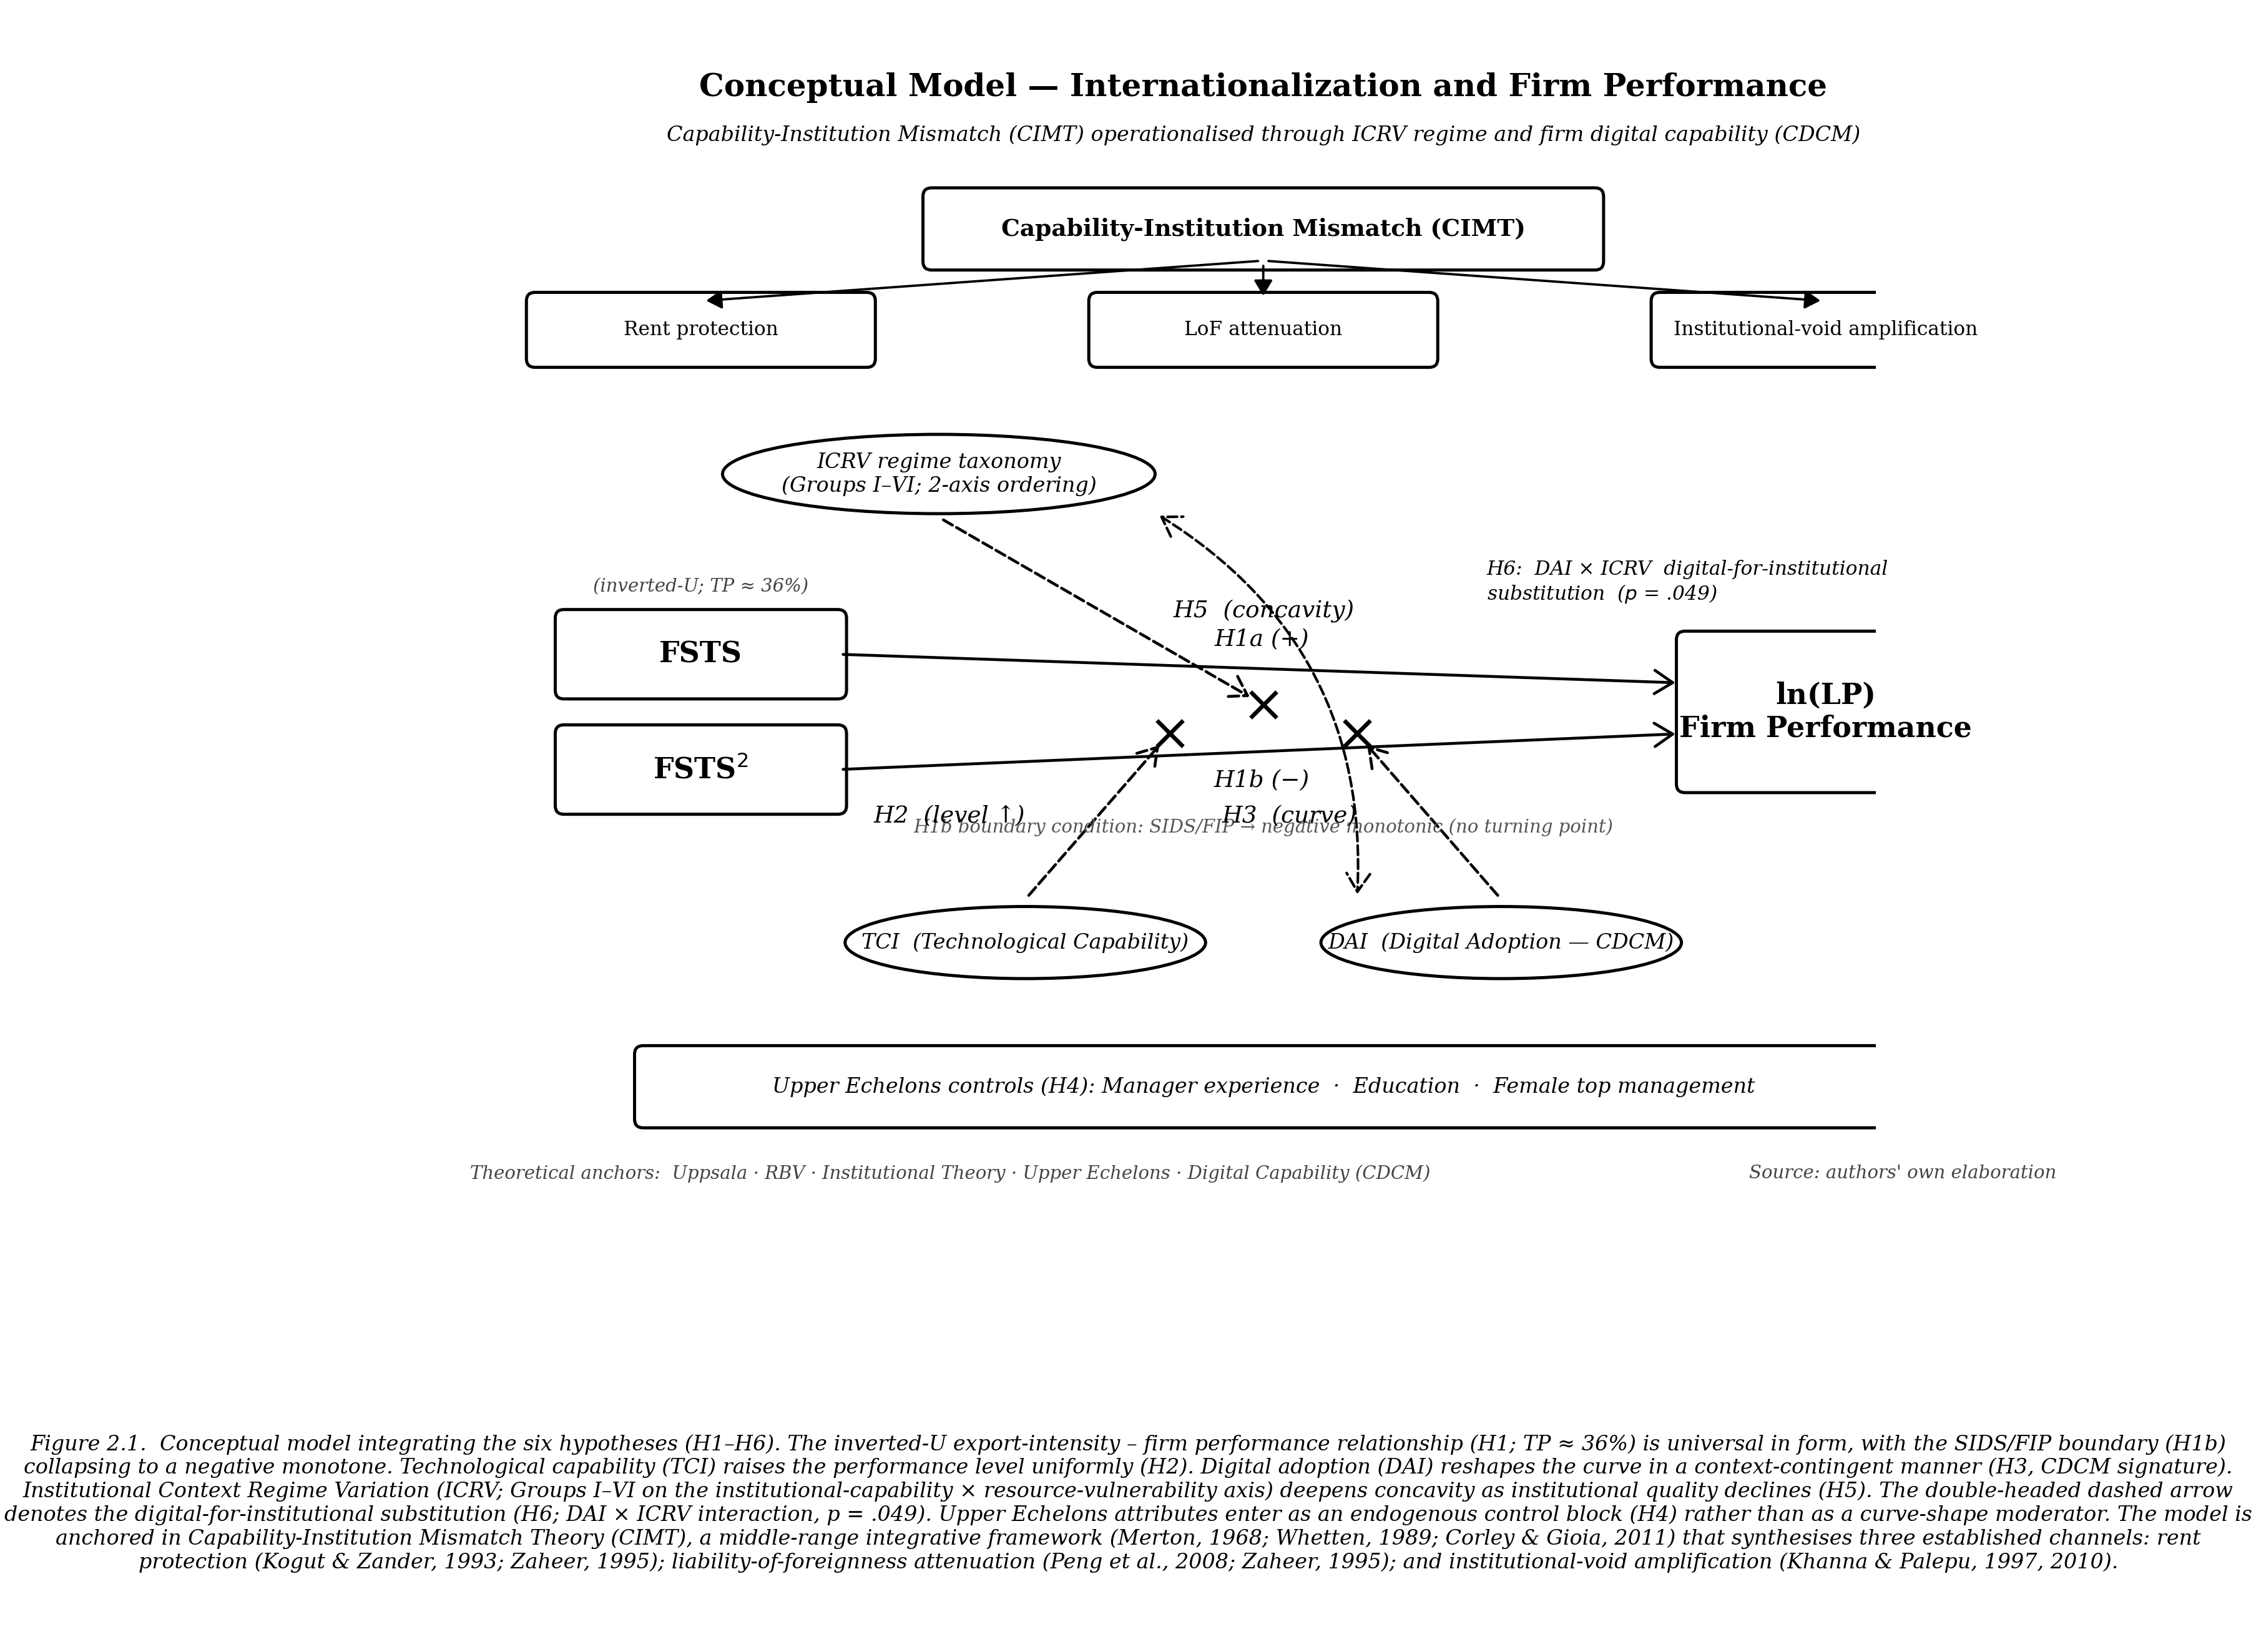
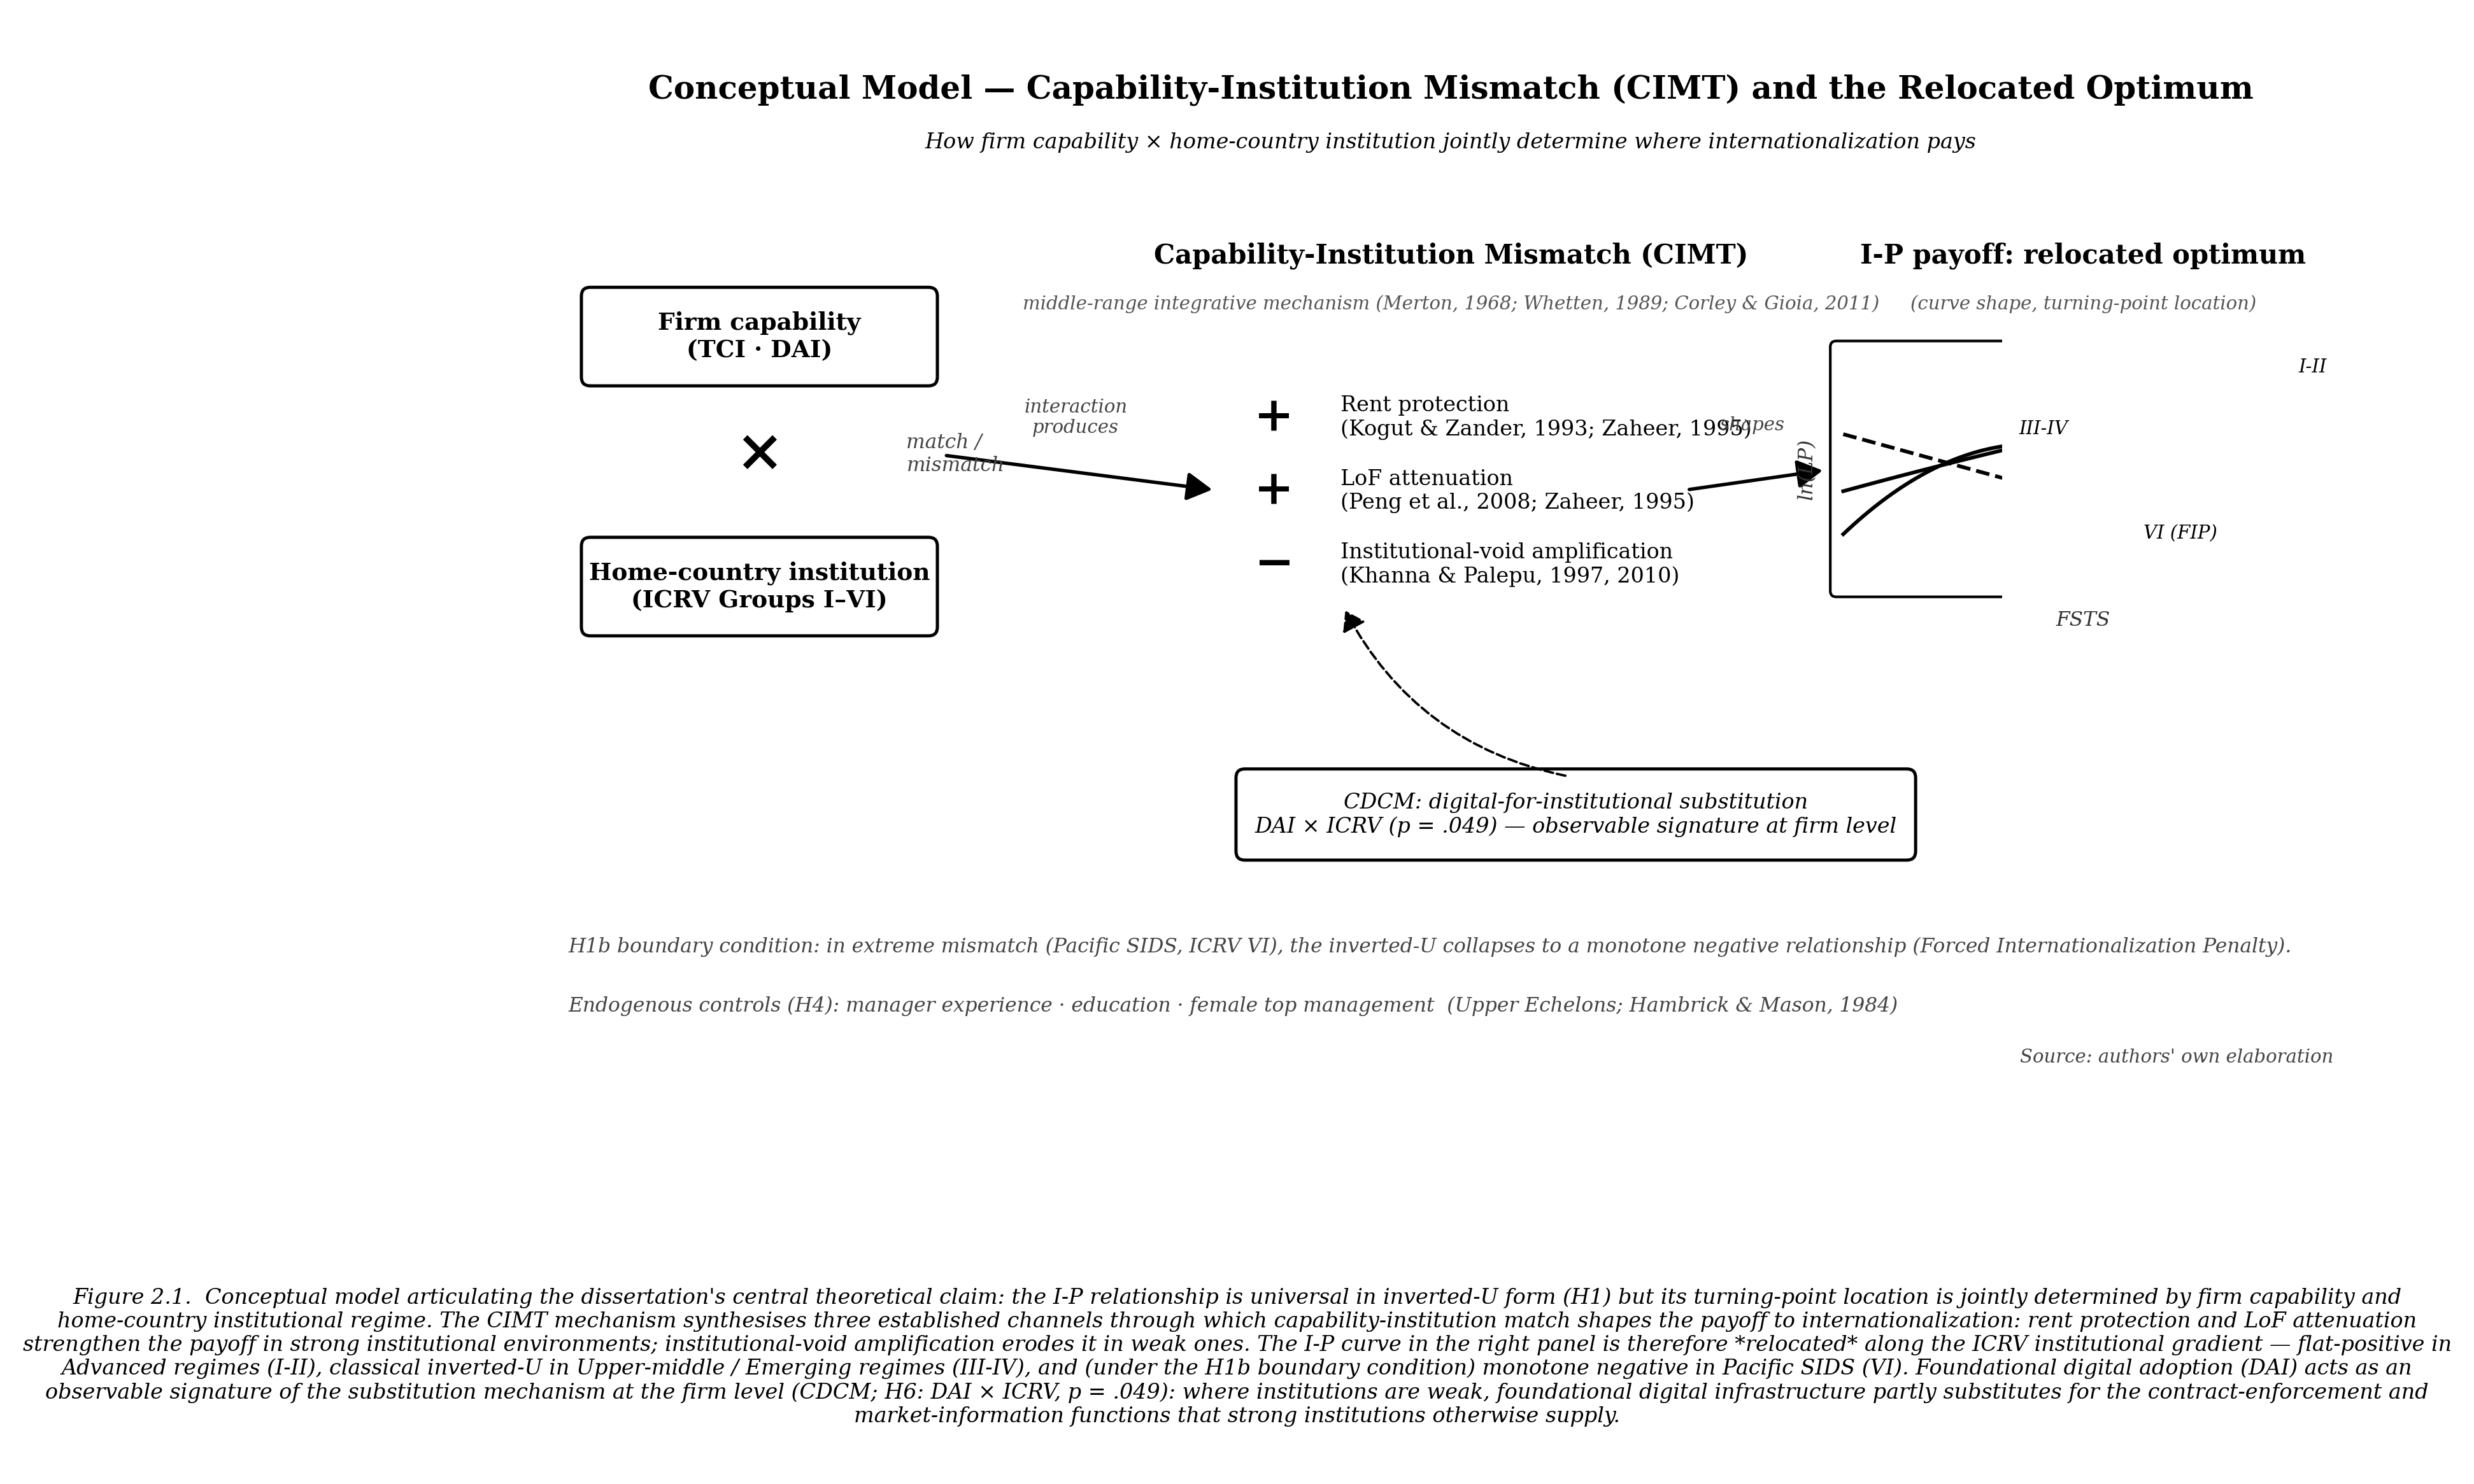
style(figures): rebuild Hinh 2.1 from IB-scholar lens — articulate contribution, not enumerate hypotheses
NCS critique: "no hoi roi va chua thay tu duy cua 1 nha nghien cuu
kinh doanh quoc te voi su hieu biet sau sac ve chu de nghien cuu"
("cluttered, doesn't reflect deep IB-scholar thinking").

Root cause: the previous version was a *list of relationships*
(15+ boxes/ellipses/arrows mapping each hypothesis H1-H6). That
catalogues the empirical model. It does not articulate the
*theoretical contribution* — which is what a deep IB scholar
(Peng / Verbeke / Cuervo-Cazurra) would design to communicate.

Redesign philosophy — what the model should now show at first glance:

1. Three-stage causal chain (left -> right):
   [Capability x Institution]  =>  [CIMT mechanism: 3 channels]
                              =>  [I-P payoff: relocated optimum]
   This is the *theoretical claim* of the dissertation, not just
   the empirical model.

2. The 3 CIMT channels are now DIRECTIONAL with + / - signs:
   - "+" Rent protection (strengthens in strong institutions)
   - "+" LoF attenuation (strengthens in transparent institutions)
   - "-" Institutional-void amplification (erodes in weak institutions)
   This shows the MECHANISM in 5 seconds, not just labels.

3. The "relocated optimum" thesis is shown VISUALLY in the right
   panel: 3 stylised I-P curves overlaid on FSTS x ln(LP) axes:
   - I-II Advanced regimes: flat-positive curve
   - III-IV Upper-mid / Emerging: classical inverted-U with TP ~0.40
   - VI Pacific SIDS: monotone-negative (FIP boundary)
[…]

diff --git a/scripts/render_conceptual_models.py b/scripts/render_conceptual_models.py
@@ -348,133 +348,155 @@ def render_p5_china(path: Path):
 
 
 def render_dissertation_cimt_layered(path: Path):
-    """Conceptual model for the dissertation following standard
-    journal-academic conventions (JIBS / APJM / MIR style).
+    """Conceptual model for the dissertation — articulating the core
+    theoretical contribution rather than enumerating hypotheses.
 
-    Single integrated box-and-arrow diagram (no explicit "LAYER" labels,
-    no shaded background wrappers). The CIMT-ICRV-CDCM hierarchy is
-    communicated through:
-      - vertical positioning (mechanism above, taxonomy mid, signature below)
-      - typography (bold for constructs, italic for theoretical anchors)
-      - caption (full theoretical provenance + hypothesis annotation)
+    Design philosophy (deep IB-scholar lens):
+      - The theoretical contribution is the RELOCATED-OPTIMUM thesis:
+        capability-institution mismatch deforms the I-P curve along
+        a regime gradient. The diagram should show this *mechanism*,
+        not list 15 boxes-and-arrows.
+      - Three-stage causal chain (left -> right):
+          [Capability × Institution]  =>  [CIMT 3 channels]
+                                      =>  [I-P curve + relocated optimum]
+      - CDCM (digital adoption) enters as a curve-shifting force from
+        below, NOT as a parallel moderator (because in this dissertation,
+        CDCM is positioned as the *observable signature* of CIMT under
+        digital conditions; the cross-layer link IS the contribution).
+      - H4 controls in a small bottom strip (one line; not a focal point).
+      - Hypothesis labels (H1-H6) appear only where they anchor a specific
+        causal arrow, not as decorative tags.
     """
-    fig, ax = setup_axes(width=11.5, height=8.0)
+    fig, ax = setup_axes(width=12.5, height=7.0)
 
     # Title
-    ax.text(5.75, 7.78,
-            "Conceptual Model — Internationalization and Firm Performance",
+    ax.text(6.25, 6.78,
+            "Conceptual Model — Capability-Institution Mismatch (CIMT) "
+            "and the Relocated Optimum",
             ha="center", va="center", fontsize=TITLE_SIZE, fontweight="bold")
-    ax.text(5.75, 7.45,
-            "Capability-Institution Mismatch (CIMT) operationalised through ICRV regime "
-            "and firm digital capability (CDCM)",
+    ax.text(6.25, 6.42,
+            "How firm capability × home-country institution jointly determine "
+            "where internationalization pays",
             ha="center", va="center", fontsize=LABEL_SIZE - 1, fontstyle="italic")
 
-    # ===== Top band: Theoretical mechanism (CIMT) =====
-    # CIMT umbrella construct (small, top-center)
-    add_box(ax, 5.75, 6.80, 4.6, 0.45,
-            "Capability-Institution Mismatch (CIMT)",
+    # ===== STAGE 1: Capability × Institution (left) =====
+    # Capability composite
+    add_box(ax, 1.55, 5.10, 2.3, 0.55,
+            "Firm capability\n(TCI · DAI)", bold=True, fontsize=9)
+    # Institution composite
+    add_box(ax, 1.55, 3.40, 2.3, 0.55,
+            "Home-country institution\n(ICRV Groups I–VI)",
             bold=True, fontsize=9)
-
-    # 3 channels — small text boxes underneath the umbrella
-    add_box(ax, 1.85, 6.10, 2.3, 0.40,
-            "Rent protection", fontsize=7.5)
-    add_box(ax, 5.75, 6.10, 2.3, 0.40,
-            "LoF attenuation", fontsize=7.5)
-    add_box(ax, 9.65, 6.10, 2.3, 0.40,
-            "Institutional-void amplification", fontsize=7.5)
-
-    # Channel arrows (CIMT -> 3 channels)
-    for cx in (1.85, 5.75, 9.65):
-        a = FancyArrowPatch(
-            (5.75, 6.58), (cx, 6.30),
-            arrowstyle="-|>,head_width=3.0,head_length=5",
-            linewidth=0.9, color="black",
-            shrinkA=2, shrinkB=2,
-        )
-        ax.add_patch(a)
-
-    # ===== ICRV moderator (above the main relationship line) =====
-    add_ellipse(ax, 3.50, 5.10, 3.0, 0.55,
-                "ICRV regime taxonomy\n(Groups I–VI; 2-axis ordering)",
-                italic=True, fontsize=8)
-
-    # ===== Main IV → DV relationship (center, horizontal) =====
-    # IVs (left)
-    add_box(ax, 1.85, 3.85, 1.9, 0.50, "FSTS", bold=True)
-    add_box(ax, 1.85, 3.05, 1.9, 0.50, r"FSTS$^2$", bold=True)
-    ax.text(1.85, 4.32,
-            "(inverted-U; TP ≈ 36%)",
-            ha="center", va="center", fontsize=7, fontstyle="italic",
+    # "X" mismatch operator between them
+    ax.text(1.55, 4.30, "×",
+            ha="center", va="center", fontsize=22, fontweight="bold",
+            color="black")
+    ax.text(2.55, 4.30, "match /\nmismatch",
+            ha="left", va="center", fontsize=7.5, fontstyle="italic",
             color="#444444")
 
-    # DV (right)
-    add_box(ax, 9.65, 3.45, 1.95, 1.00,
-            "ln(LP)\nFirm Performance",
-            bold=True)
-
-    # H1a / H1b main effects (FSTS / FSTS² -> DV)
-    add_arrow(ax, (2.80, 3.85), (8.68, 3.65),
-              label="H1a (+)", label_pos="mid", label_offset=(0, 0.20))
-    add_arrow(ax, (2.80, 3.05), (8.68, 3.30),
-              label="H1b (−)", label_pos="mid", label_offset=(0, -0.20))
-
-    # ===== H5 moderation arrow (ICRV -> main relationship line) =====
-    add_mod_arrow(ax, (3.50, 4.80), (5.75, 3.50),
-                  label="H5  (concavity)")
-
-    # H1b boundary note
-    ax.text(5.75, 2.65,
-            "H1b boundary condition: SIDS/FIP → negative monotonic (no turning point)",
+    # ===== STAGE 2: CIMT mechanism (center) =====
+    # Mechanism wrapper title (text only — no box)
+    ax.text(6.25, 5.65,
+            "Capability-Institution Mismatch (CIMT)",
+            ha="center", va="center", fontsize=10, fontweight="bold")
+    ax.text(6.25, 5.32,
+            "middle-range integrative mechanism (Merton, 1968; Whetten, 1989; "
+            "Corley & Gioia, 2011)",
             ha="center", va="center", fontsize=7, fontstyle="italic",
             color="#555555")
 
-    # ===== Firm capabilities — TCI and DAI moderators (below) =====
-    add_ellipse(ax, 4.10, 1.85, 2.5, 0.50,
-                "TCI  (Technological Capability)",
-                italic=True, fontsize=8)
-    add_ellipse(ax, 7.40, 1.85, 2.5, 0.50,
-                "DAI  (Digital Adoption — CDCM)",
-                italic=True, fontsize=8)
+    # 3 channel arrows — DIRECTIONAL (each shows + / − contribution to payoff)
+    # Channel arrow 1 — rent protection (strengthens with strong institutions)
+    ax.text(5.05, 4.55, "+", fontsize=18, fontweight="bold",
+            ha="center", va="center", color="black")
+    ax.text(5.50, 4.55,
+            "Rent protection\n(Kogut & Zander, 1993; Zaheer, 1995)",
+            ha="left", va="center", fontsize=8)
 
-    # H2: TCI -> level shift on main relationship
-    add_mod_arrow(ax, (4.10, 2.15), (5.10, 3.30),
-                  label="H2  (level ↑)")
+    # Channel arrow 2 — LoF attenuation (strengthens with transparent institutions)
+    ax.text(5.05, 4.05, "+", fontsize=18, fontweight="bold",
+            ha="center", va="center", color="black")
+    ax.text(5.50, 4.05,
+            "LoF attenuation\n(Peng et al., 2008; Zaheer, 1995)",
+            ha="left", va="center", fontsize=8)
 
-    # H3: DAI -> curve reshape on main relationship
-    add_mod_arrow(ax, (7.40, 2.15), (6.40, 3.30),
-                  label="H3  (curve)")
+    # Channel arrow 3 — institutional-void amplification (weakens with weak institutions)
+    ax.text(5.05, 3.55, "−", fontsize=18, fontweight="bold",
+            ha="center", va="center", color="black")
+    ax.text(5.50, 3.55,
+            "Institutional-void amplification\n(Khanna & Palepu, 1997, 2010)",
+            ha="left", va="center", fontsize=8)
 
-    # ===== DAI × ICRV interaction (substitution; H6) =====
-    a_sub = FancyArrowPatch(
-        (5.00, 4.83), (6.40, 2.15),
-        arrowstyle="<->,head_width=4.5,head_length=7",
-        linewidth=1.0, color="black", linestyle="--",
-        connectionstyle="arc3,rad=-0.30",
-        shrinkA=2, shrinkB=2,
+    # Arrow from STAGE 1 to STAGE 2 (capability×institution => CIMT)
+    a_s1_s2 = FancyArrowPatch(
+        (2.75, 4.30), (4.70, 4.05),
+        arrowstyle="-|>,head_width=4.5,head_length=8",
+        linewidth=1.3, color="black",
+        shrinkA=4, shrinkB=4,
     )
-    ax.add_patch(a_sub)
-    ax.text(7.30, 4.35,
-            "H6:  DAI × ICRV  digital-for-institutional\n"
-            r"substitution  ($p$ = .049)",
-            ha="left", va="center", fontsize=7.5, fontstyle="italic")
-
-    # ===== Upper Echelons controls (H4) — bottom strip =====
-    add_box(ax, 5.75, 0.85, 8.6, 0.45,
-            "Upper Echelons controls (H4): "
-            "Manager experience  ·  Education  ·  Female top management",
-            italic=True, fontsize=8)
-    # Dashed control arrow to DV (right side)
-    add_arrow(ax, (10.05, 1.10), (10.05, 2.95), dashed=True, curve=0.10)
-
-    # Theoretical-anchor strip (bottom-left, small)
-    ax.text(0.25, 0.25,
-            "Theoretical anchors:  Uppsala · RBV · Institutional Theory · "
-            "Upper Echelons · Digital Capability (CDCM)",
-            ha="left", va="center", fontsize=7, fontstyle="italic",
+    ax.add_patch(a_s1_s2)
+    ax.text(3.70, 4.55, "interaction\nproduces",
+            ha="center", va="center", fontsize=7, fontstyle="italic",
             color="#444444")
 
-    # Source line (bottom-right)
-    ax.text(11.25, 0.25,
+    # ===== STAGE 3: I-P outcome (right) — the relocated-optimum signature =====
+    # Outcome label
+    ax.text(10.55, 5.65,
+            "I-P payoff: relocated optimum",
+            ha="center", va="center", fontsize=10, fontweight="bold")
+    ax.text(10.55, 5.32,
+            "(curve shape, turning-point location)",
+            ha="center", va="center", fontsize=7, fontstyle="italic",
+            color="#555555")
+
+    # I-P curve sub-icon — show 3 stylised regime curves
+    _draw_ip_curves_subicon(ax, x0=8.85, y0=3.35, w=3.40, h=1.70)
+
+    # Arrow from STAGE 2 to STAGE 3 (CIMT => I-P payoff)
+    a_s2_s3 = FancyArrowPatch(
+        (7.80, 4.05), (8.85, 4.20),
+        arrowstyle="-|>,head_width=4.5,head_length=8",
+        linewidth=1.3, color="black",
+        shrinkA=4, shrinkB=4,
+    )
+    ax.add_patch(a_s2_s3)
+    ax.text(8.30, 4.50, "shapes",
+            ha="center", va="center", fontsize=7, fontstyle="italic",
+            color="#444444")
+
+    # ===== CDCM cross-layer modifier (from below, into Stage 2-3 boundary) =====
+    add_box(ax, 7.10, 1.85, 4.5, 0.50,
+            "CDCM: digital-for-institutional substitution\n"
+            "DAI × ICRV (p = .049) — observable signature at firm level",
+            italic=True, fontsize=8)
+    # Curved dashed arrow from CDCM up into Stage 2 (mechanism reshape)
+    a_cdcm = FancyArrowPatch(
+        (7.10, 2.10), (5.50, 3.30),
+        arrowstyle="-|>,head_width=4.0,head_length=6",
+        linewidth=0.9, color="black", linestyle="--",
+        connectionstyle="arc3,rad=-0.25",
+        shrinkA=4, shrinkB=4,
+    )
+    ax.add_patch(a_cdcm)
+
+    # ===== H4 Upper Echelons controls (small bottom strip) =====
+    ax.text(0.25, 0.55,
+            "Endogenous controls (H4): manager experience · education · "
+            "female top management  (Upper Echelons; Hambrick & Mason, 1984)",
+            ha="left", va="center", fontsize=7.5, fontstyle="italic",
+            color="#444444")
+
+    # ===== H1b boundary condition (small bottom strip) =====
+    ax.text(0.25, 0.95,
+            "H1b boundary condition: in extreme mismatch (Pacific SIDS, ICRV VI), "
+            "the inverted-U collapses to a monotone negative relationship "
+            "(Forced Internationalization Penalty).",
+            ha="left", va="center", fontsize=7.5, fontstyle="italic",
+            color="#444444")
+
+    # Source line
+    ax.text(12.25, 0.20,
             "Source: authors' own elaboration",
             ha="right", va="center", fontsize=7, fontstyle="italic",
             color="#444444")
@@ -482,24 +504,24 @@ def render_dissertation_cimt_layered(path: Path):
     # Caption
     fig.text(
         0.5, -0.04,
-        "Figure 2.1.  Conceptual model integrating the six hypotheses (H1–H6). "
-        "The inverted-U export-intensity – firm performance relationship (H1; "
-        "TP ≈ 36%) is universal in form, with the SIDS/FIP boundary (H1b) "
-        "collapsing to a negative monotone. Technological capability (TCI) "
-        "raises the performance level uniformly (H2). Digital adoption (DAI) "
-        "reshapes the curve in a context-contingent manner (H3, CDCM signature). "
-        "Institutional Context Regime Variation (ICRV; Groups I–VI on the "
-        "institutional-capability × resource-vulnerability axis) deepens "
-        "concavity as institutional quality declines (H5). The double-headed "
-        "dashed arrow denotes the digital-for-institutional substitution (H6; "
-        "DAI × ICRV interaction, p = .049). Upper Echelons attributes enter as "
-        "an endogenous control block (H4) rather than as a curve-shape moderator. "
-        "The model is anchored in Capability-Institution Mismatch Theory (CIMT), "
-        "a middle-range integrative framework (Merton, 1968; Whetten, 1989; "
-        "Corley & Gioia, 2011) that synthesises three established channels: "
-        "rent protection (Kogut & Zander, 1993; Zaheer, 1995); liability-of-"
-        "foreignness attenuation (Peng et al., 2008; Zaheer, 1995); and "
-        "institutional-void amplification (Khanna & Palepu, 1997, 2010).",
+        "Figure 2.1.  Conceptual model articulating the dissertation's central "
+        "theoretical claim: the I-P relationship is universal in inverted-U form "
+        "(H1) but its turning-point location is jointly determined by firm "
+        "capability and home-country institutional regime. The CIMT mechanism "
+        "synthesises three established channels through which capability-"
+        "institution match shapes the payoff to internationalization: rent "
+        "protection and LoF attenuation strengthen the payoff in strong "
+        "institutional environments; institutional-void amplification erodes it "
+        "in weak ones. The I-P curve in the right panel is therefore *relocated* "
+        "along the ICRV institutional gradient — flat-positive in Advanced "
+        "regimes (I-II), classical inverted-U in Upper-middle / Emerging regimes "
+        "(III-IV), and (under the H1b boundary condition) monotone negative in "
+        "Pacific SIDS (VI). Foundational digital adoption (DAI) acts as an "
+        "observable signature of the substitution mechanism at the firm level "
+        "(CDCM; H6: DAI × ICRV, p = .049): where institutions are weak, "
+        "foundational digital infrastructure partly substitutes for the "
+        "contract-enforcement and market-information functions that strong "
+        "institutions otherwise supply.",
         ha="center", va="top", fontsize=LABEL_SIZE - 1, fontstyle="italic",
         wrap=True,
     )
@@ -507,6 +529,50 @@ def render_dissertation_cimt_layered(path: Path):
     plt.savefig(path, dpi=DPI, bbox_inches="tight", pad_inches=0.3)
     plt.close(fig)
     print(f"  wrote {path}")
+
+
+def _draw_ip_curves_subicon(ax, x0, y0, w, h):
+    """Draw 3 stylised I-P regime curves inside a [x0,x0+w] x [y0,y0+h]
+    box, illustrating the 'relocated optimum' visually.
+    Used by render_dissertation_cimt_layered.
+    """
+    import numpy as np
+    # Frame
+    frame = FancyBboxPatch(
+        (x0, y0), w, h,
+        boxstyle="round,pad=0.02,rounding_size=0.04",
+        facecolor="white", edgecolor="black", linewidth=1.0,
+    )
+    ax.add_patch(frame)
+
+    # Axes labels
+    ax.text(x0 + w / 2, y0 - 0.18, "FSTS",
+            ha="center", va="center", fontsize=7.5,
+            color="#333333", fontstyle="italic")
+    ax.text(x0 - 0.18, y0 + h / 2, "ln(LP)",
+            ha="center", va="center", fontsize=7.5,
+            color="#333333", fontstyle="italic", rotation=90)
+
+    # Parametric x (0..1 in FSTS units)
+    xs = np.linspace(0.02, 0.98, 100)
+
+    # Curve 1: Advanced regime (I-II) — flat-positive, near-linear
+    ys1 = 0.40 + 0.55 * xs - 0.10 * xs ** 2
+    ax.plot(x0 + xs * w, y0 + ys1 * h, "-", linewidth=1.4, color="black")
+    ax.text(x0 + 0.93 * w, y0 + ys1[-1] * h + 0.05, "I-II",
+            ha="left", va="bottom", fontsize=7, fontstyle="italic")
+
+    # Curve 2: Upper-mid / Emerging regime (III-IV) — classical inverted-U, TP ~ 0.40
+    ys2 = 0.20 + 2.0 * xs - 2.5 * xs ** 2
+    ax.plot(x0 + xs * w, y0 + ys2 * h, "-", linewidth=1.4, color="black")
+    ax.text(x0 + 0.42 * w, y0 + max(ys2) * h + 0.04, "III-IV",
+            ha="center", va="bottom", fontsize=7, fontstyle="italic")
+
+    # Curve 3: Pacific SIDS / FIP (VI) — monotone negative
+    ys3 = 0.65 - 0.55 * xs
+    ax.plot(x0 + xs * w, y0 + ys3 * h, "--", linewidth=1.4, color="black")
+    ax.text(x0 + 0.62 * w, y0 + ys3[60] * h - 0.07, "VI (FIP)",
+            ha="left", va="top", fontsize=7, fontstyle="italic")
 
 
 def render_dissertation_unified(path: Path):